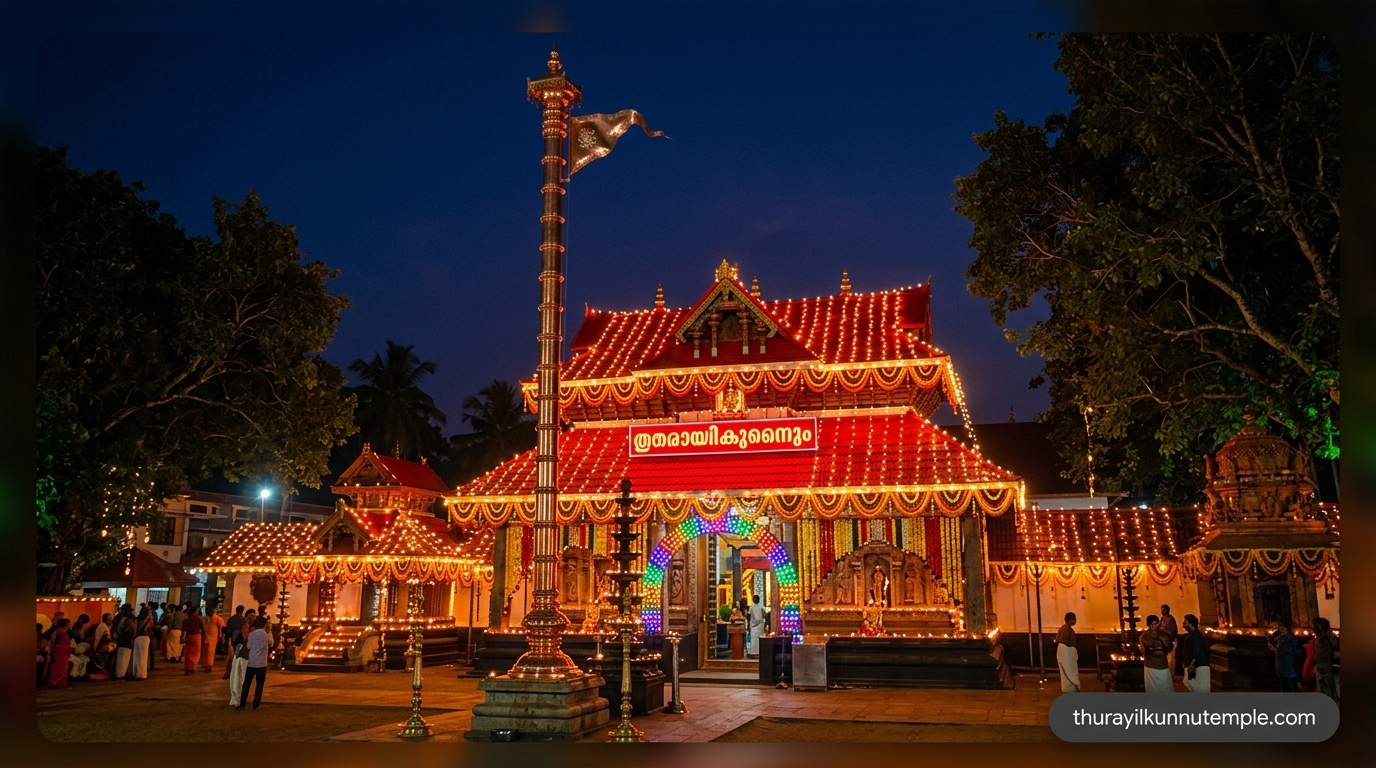
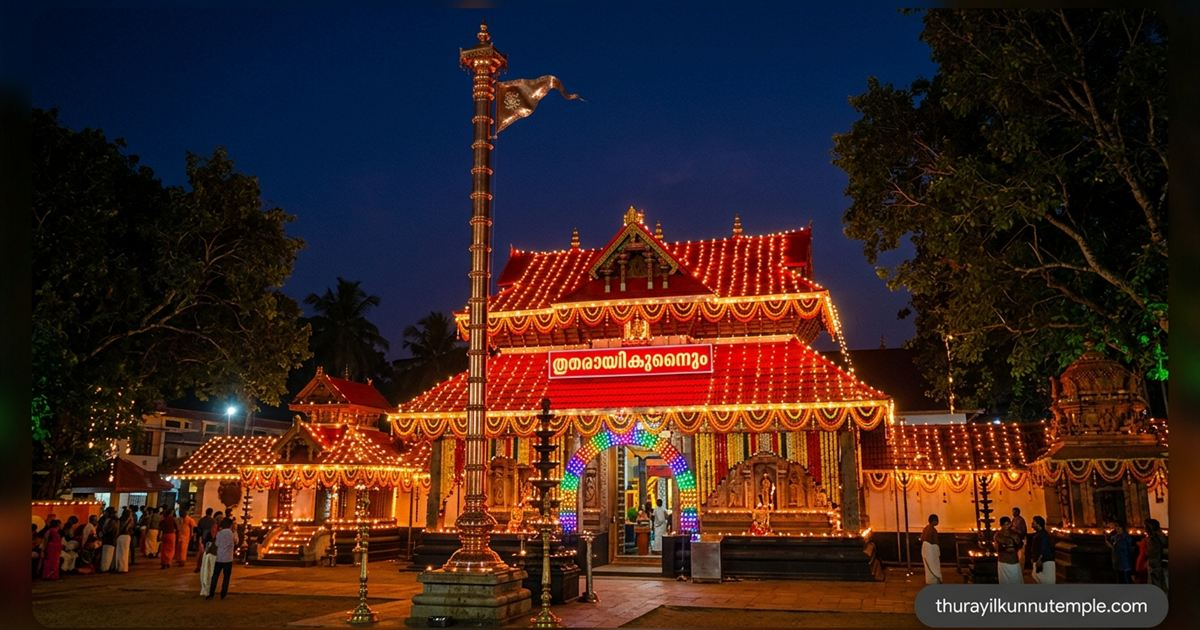
fix(og): compress og-image to 142KB (under WhatsApp 300KB limit), resize to 1200x630, and add cache buster ?v=4

diff --git a/index.html b/index.html
@@ -25,34 +25,35 @@
     <meta name="keywords" content="Thurayilkunnu temple, Subrahmanya Swami temple, Murugan temple Kerala, Karunagappally temple, Lord Subrahmanya, Thaipusam, Skanda Sashti, vazhipadu, online pooja Kerala, Kerala Hindu temple" />
     <meta name="author" content="Thurayilkunnu Sree Subrahmanya Swami Temple Trust" />
     <meta name="robots" content="index, follow" />
-    <link rel="canonical" href="https://thurayilkunnutemple.com/?lng=en" />
+    <link rel="canonical" href="https://thurayilkunnutemple.com/" />
 
     <!-- ===================== HREFLANG ===================== -->
     <link rel="alternate" hreflang="en" href="https://thurayilkunnutemple.com/?lng=en" />
     <link rel="alternate" hreflang="ml" href="https://thurayilkunnutemple.com/?lng=ml" />
-    <link rel="alternate" hreflang="x-default" href="https://thurayilkunnutemple.com/?lng=en" />
+    <link rel="alternate" hreflang="x-default" href="https://thurayilkunnutemple.com/" />
 
     <!-- ===================== OPEN GRAPH (WhatsApp / Facebook / Telegram / iMessage) ===================== -->
     <meta property="og:type" content="website" />
     <meta property="og:site_name" content="Thurayilkunnu Sree Subrahmanya Swami Temple" />
-    <meta property="og:url" content="https://thurayilkunnutemple.com/?lng=en" />
+    <meta property="og:url" content="https://thurayilkunnutemple.com/" />
     <meta property="og:title" content="Thurayilkunnu Sree Subrahmanya Swami Temple | Karunagappally" />
     <meta property="og:description" content="Ancient seat of divinity at Karunagappally, Kerala. Dedicated to Lord Subrahmanya (Murugan). Daily Panchangam, poojas, annual festivals & online vazhipadu." />
-    <meta property="og:image" content="https://thurayilkunnutemple.com/og-image.jpg" />
-    <meta property="og:image:secure_url" content="https://thurayilkunnutemple.com/og-image.jpg" />
+    <meta property="og:image" content="https://thurayilkunnutemple.com/og-image.jpg?v=4" />
+    <meta property="og:image:secure_url" content="https://thurayilkunnutemple.com/og-image.jpg?v=4" />
     <meta property="og:image:type" content="image/jpeg" />
     <meta property="og:image:width" content="1200" />
     <meta property="og:image:height" content="630" />
     <meta property="og:image:alt" content="Thurayilkunnu Sree Subrahmanya Swami Temple Sanctum" />
     <meta property="og:locale" content="en_IN" />
     <meta property="og:locale:alternate" content="ml_IN" />
+    <link rel="image_src" href="https://thurayilkunnutemple.com/og-image.jpg?v=4" />
 
     <!-- ===================== TWITTER CARD ===================== -->
     <meta name="twitter:card" content="summary_large_image" />
     <meta name="twitter:site" content="@thurayilkunnutemple" />
     <meta name="twitter:title" content="Thurayilkunnu Sree Subrahmanya Swami Temple | Karunagappally" />
     <meta name="twitter:description" content="Ancient seat of divinity at Karunagappally, Kerala. Dedicated to Lord Subrahmanya (Murugan)." />
-    <meta name="twitter:image" content="https://thurayilkunnutemple.com/og-image.jpg" />
+    <meta name="twitter:image" content="https://thurayilkunnutemple.com/og-image.jpg?v=4" />
     <meta name="twitter:image:alt" content="Thurayilkunnu Sree Subrahmanya Swami Temple Sanctum" />
 
     <!-- ===================== STRUCTURED DATA (Schema.org) ===================== -->

diff --git a/src/components/SEO.jsx b/src/components/SEO.jsx
@@ -1,4 +1,4 @@
-import React from 'react';
+import React from 'react';
 import { Helmet } from 'react-helmet-async';
 import { useTranslation } from 'react-i18next';
 import { SITE_URL, TEMPLE_NAME_EN, TEMPLE_NAME_ML, buildTempleSchema } from '../constants/site';
@@ -8,7 +8,7 @@ const SEO = ({ title, description, keywords, image, url, schema, noIndex = false
 
     const siteName = TEMPLE_NAME_EN;
     const defaultDescription = "Ancient seat of divinity in Karunagappally, Kerala. Home to Lord Subrahmanya, offering spiritual grace, traditional poojas, and grand festivals.";
-    const defaultImage = `${SITE_URL}/og-image.jpg`;
+    const defaultImage = `${SITE_URL}/og-image.jpg?v=4`;
     const defaultKeywords = "Thurayilkunnu Temple, Subrahmanya Swami, Karunagappally, Kerala Temple, Murugan, Thaipusam, Hindu Temple";
 
     const finalTitle = title ? `${title} | ${siteName}` : siteName;
@@ -56,6 +56,7 @@ const SEO = ({ title, description, keywords, image, url, schema, noIndex = false
             <meta property="og:site_name" content={siteName} />
             <meta property="og:locale" content={isML ? 'ml_IN' : 'en_IN'} />
             <meta property="og:locale:alternate" content={isML ? 'en_IN' : 'ml_IN'} />
+            <link rel="image_src" href={finalImage} />
 
             {/* Twitter */}
             <meta name="twitter:card" content="summary_large_image" />

diff --git a/src/constants/site.js b/src/constants/site.js
@@ -46,7 +46,7 @@ export const buildTempleSchema = ({ image, description, alternateName } = {}) =>
     alternateName: alternateName || TEMPLE_NAME_ML,
     description: description || 'An ancient temple dedicated to Lord Subrahmanya (Murugan) at Karunagappally, Kerala, serving devotees for generations with traditional rituals and spiritual grace.',
     url: SITE_URL,
-    image: image || `${SITE_URL}/og-image.jpg`,
+    image: image || `${SITE_URL}/og-image.jpg?v=4`,
     telephone: PHONE_PRIMARY,
     email: CONTACT_EMAIL,
     address: {
